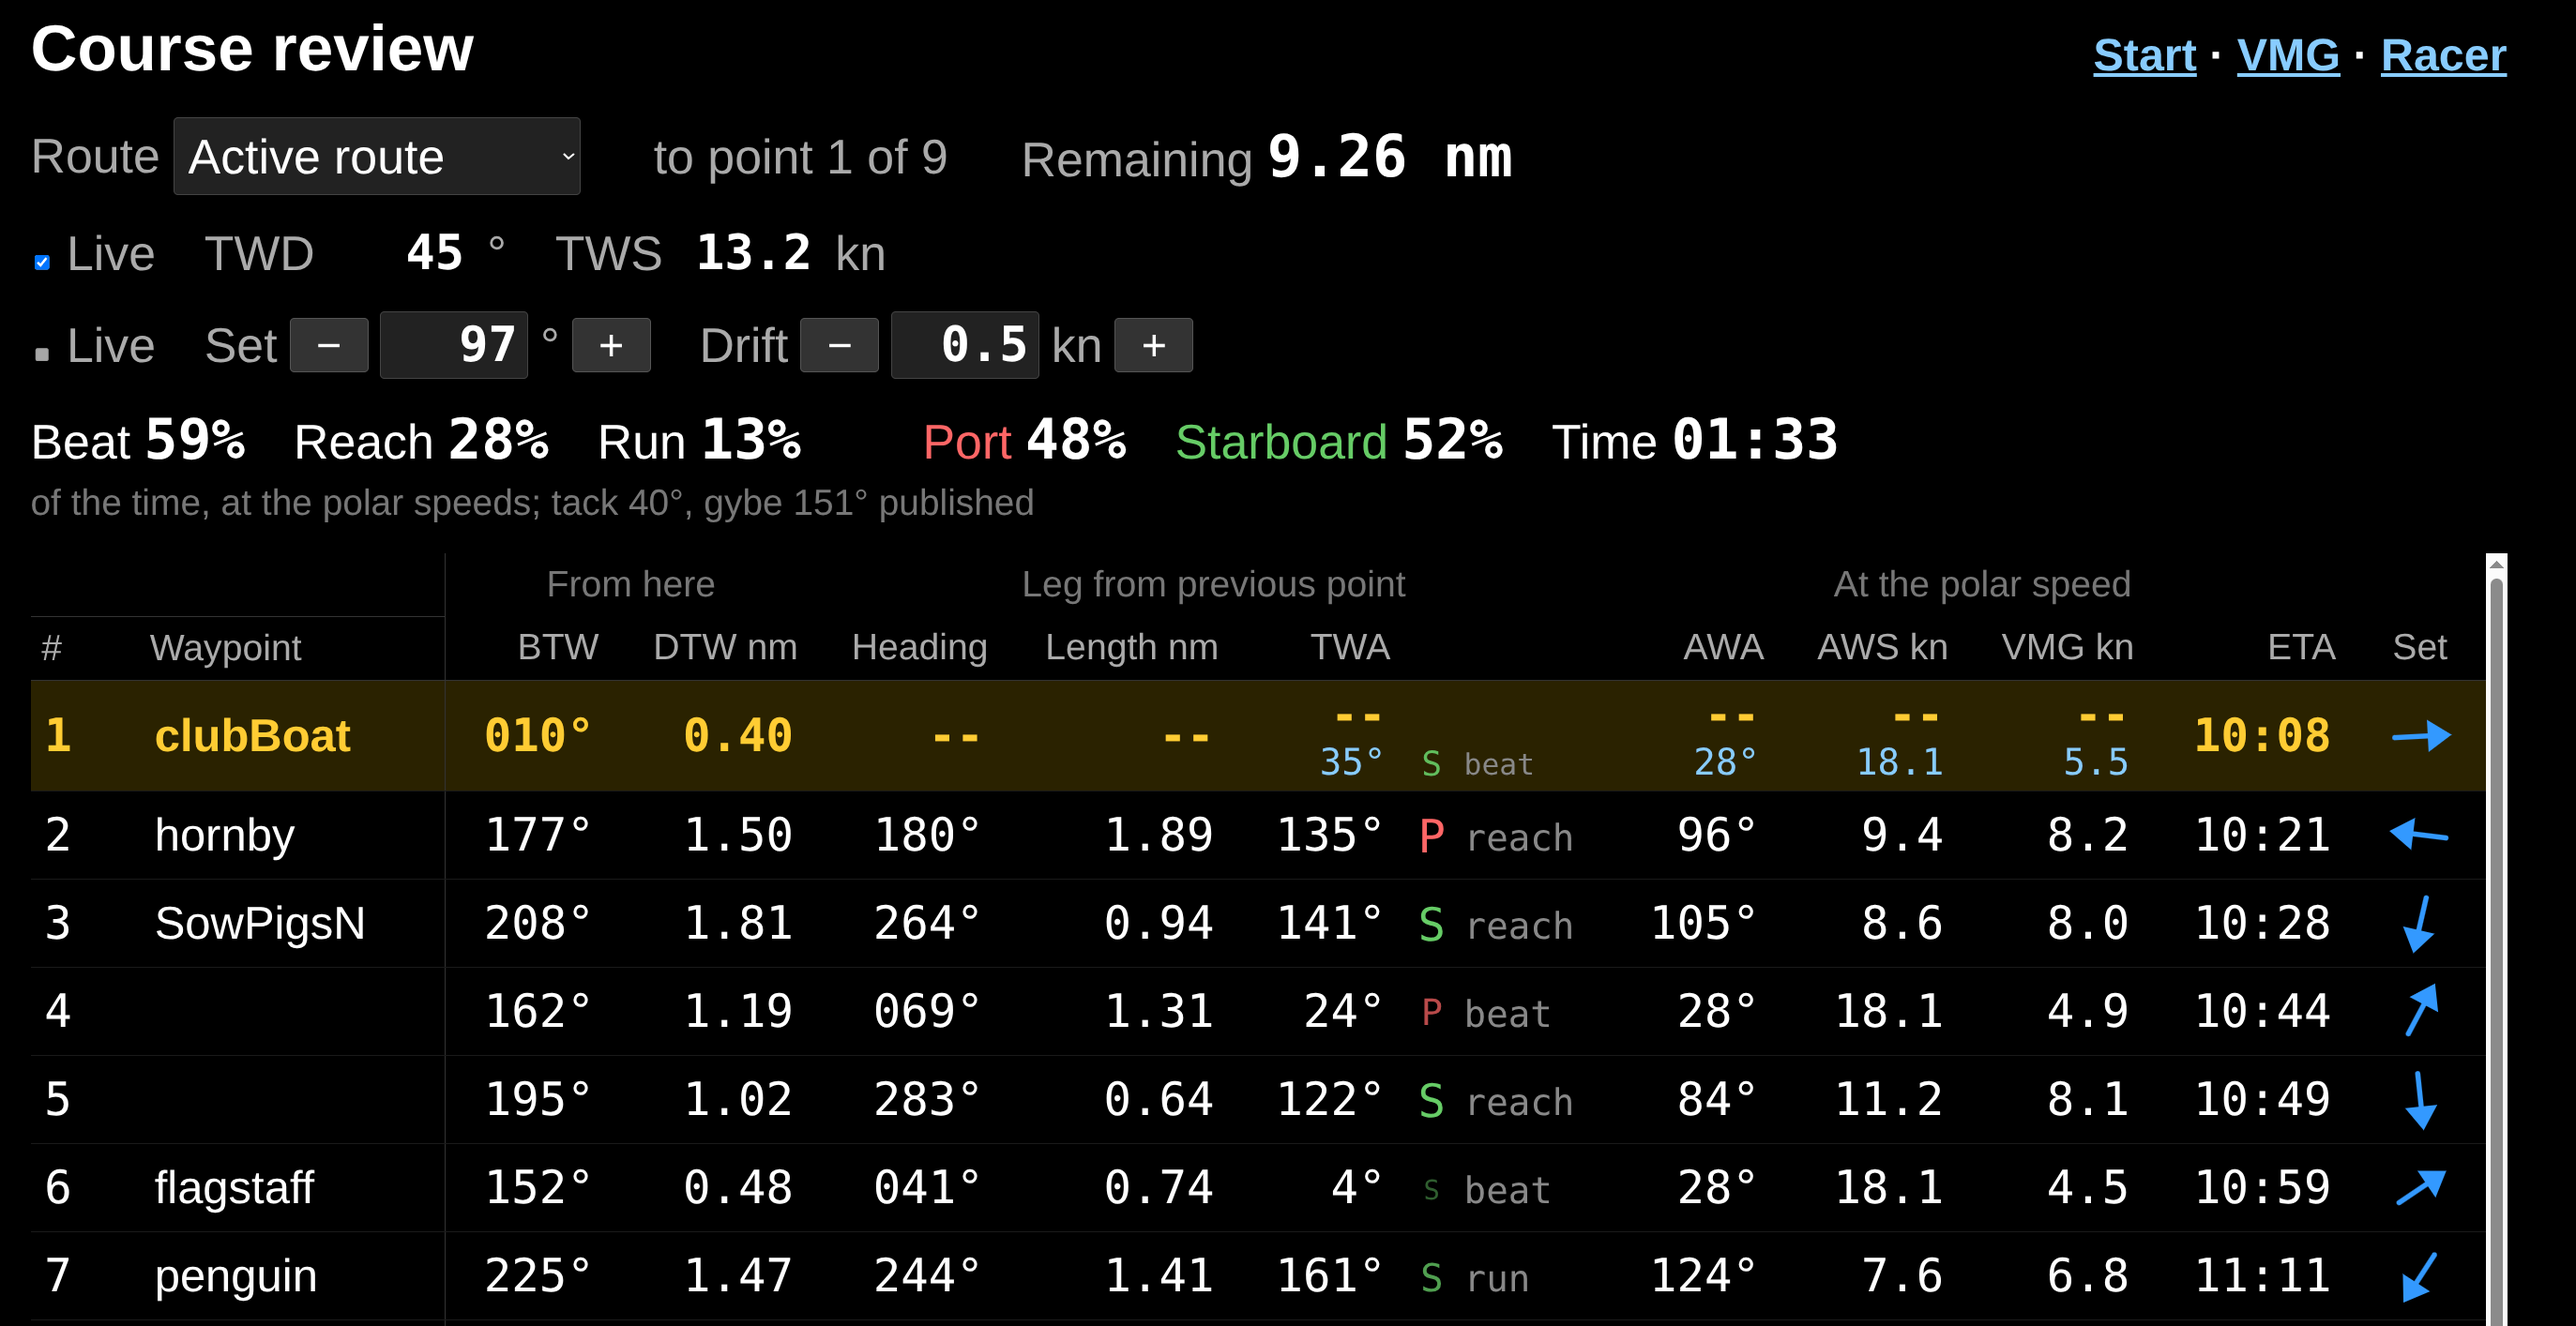
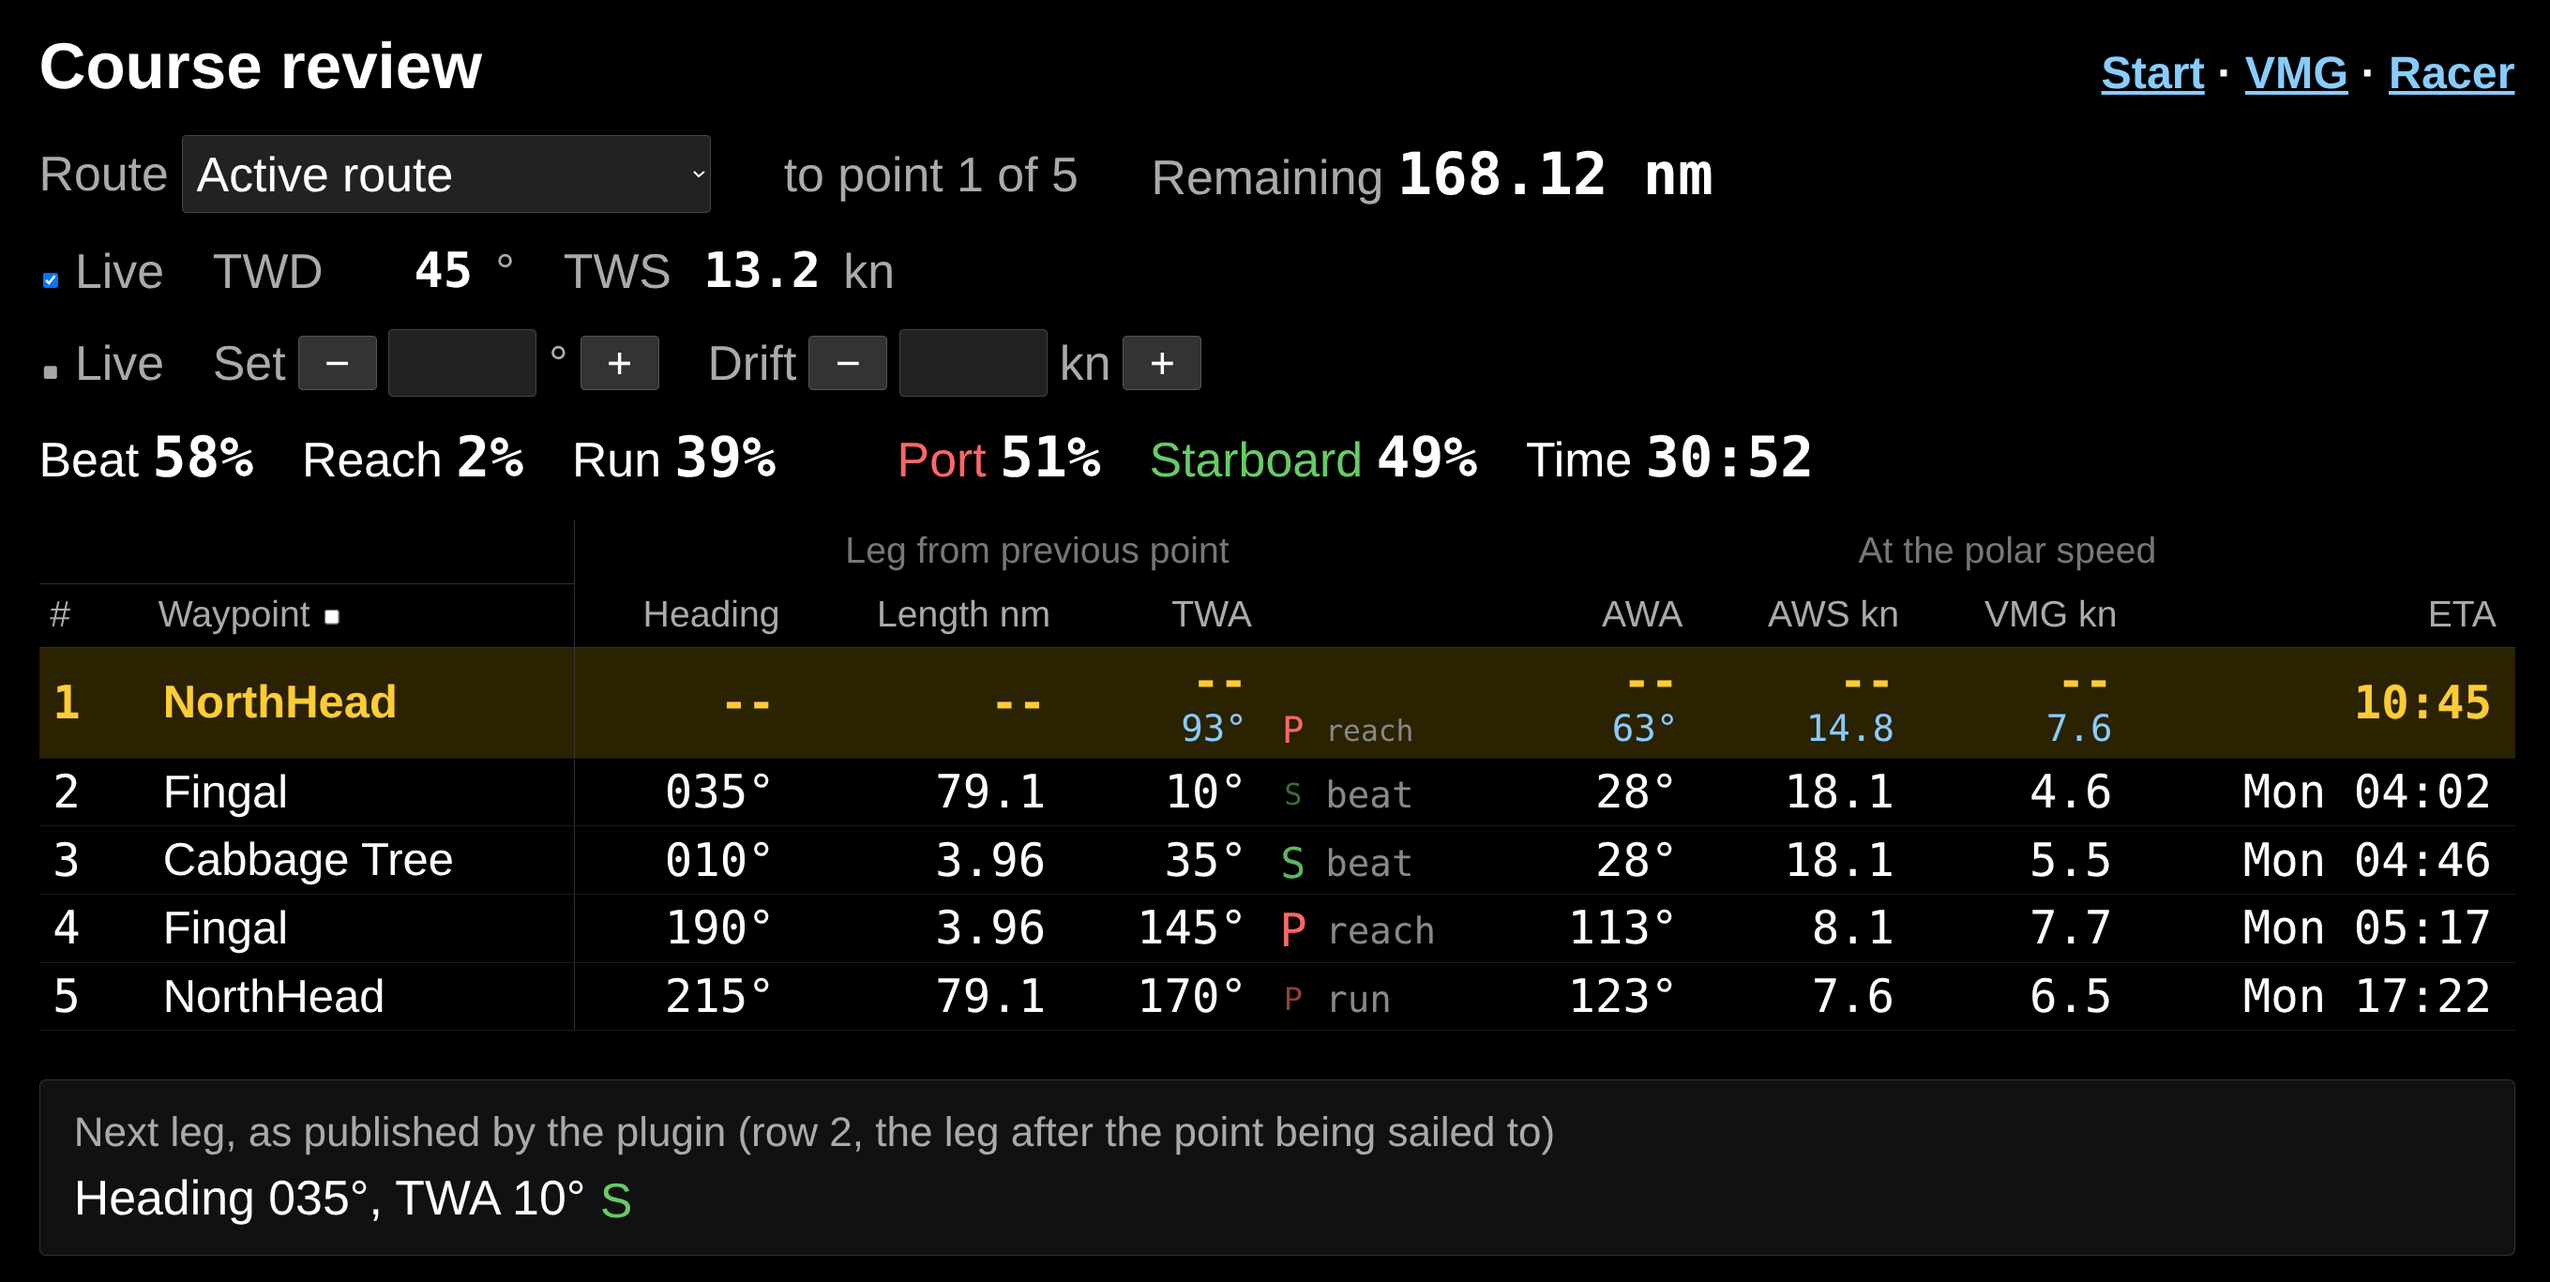
Course page: optional, smaller From here columns, no note under the totals
The BTW/DTW columns are shown only when the tick box beside the Waypoint
heading is ticked (off by default, remembered in the browser), in smaller
type. The note under the totals is gone. New course screenshot.

Claude-Session: https://claude.ai/code/session_01RzhGmF1H7diyDpwv7TuU4a

diff --git a/public/course.html b/public/course.html
@@ -51,6 +51,11 @@
         .c0 { left: 0; width: 2.2em; min-width: 2.2em; box-sizing: border-box; padding-left: 0.3em; padding-right: 0.3em; }
         .c1 { left: 2.2em; max-width: 9em; border-right: 1px solid #333; }
 
+        /* The From here columns: smaller, and only when ticked beside the Waypoint heading. */
+        td.here { font-size: 0.7em; }
+        table.no-here .here { display: none; }
+        #showHere { margin: 0 0 0 0.3em; vertical-align: middle; cursor: pointer; }
+
         tr.passed td { color: #555; }
         tr.next td { background: #2a2200; color: #fc3; font-weight: bold; }
         .published { display: block; font-size: 0.8em; color: #8cf; font-weight: normal; }
@@ -71,7 +76,6 @@
         .totals { display: flex; flex-wrap: wrap; gap: 0.2em 1em; align-items: baseline; margin-bottom: 0.6em; font-size: 0.9em; }
         .totals b { font-family: monospace; font-size: 1.15em; }
         .totals .sep { width: 0.5em; }
-        .totals .basis { color: #777; font-size: 0.75em; }
         /* A fixed box, so a smaller tack letter stays centred and keeps the kind of leg in line. */
         /* The tack, centred in its own narrow column, close to the angle and kind either side. */
         td.side-col, th.side-col { text-align: center; padding-left: 0; padding-right: 0; width: 1em; }
@@ -119,15 +123,15 @@
         <thead>
         <tr>
             <th class="c0"></th><th class="c1"></th>
-            <th class="group" colspan="2">From here</th>
+            <th class="group here" colspan="2">From here</th>
             <th class="group legs" colspan="5">Leg from previous point</th>
             <th class="group pol" colspan="4">At the polar speed</th>
         </tr>
         <tr>
             <th class="l c0">#</th>
-            <th class="l c1">Waypoint</th>
-            <th>BTW</th>
-            <th>DTW nm</th>
+            <th class="l c1">Waypoint <input type="checkbox" id="showHere" title="Show the bearing and distance from here" onchange="showHere(this.checked)"></th>
+            <th class="here">BTW</th>
+            <th class="here">DTW nm</th>
             <th>Heading</th>
             <th>Length nm</th>
             <th>TWA</th>
@@ -151,7 +155,8 @@
 <div id="status"></div>
 
 <div class="note">
-    Bearings are true. <b>BTW/DTW</b>: bearing and distance from the boat to each point.
+    Bearings are true. <b>BTW/DTW</b>, shown with the tick box beside <b>Waypoint</b>: bearing and
+    distance from the boat to each point.
     <b>Leg heading/length</b>: from the previous point of the course. <b>TWA</b> and <b>Set</b> are
     the wind and current measured on the boat now (or, with <b>Live</b> off, the TWD and TWS, or
     the set and drift, set above), projected onto every leg as if they hold for the
@@ -261,16 +266,9 @@
         }
         return etas;
     }
-    // Where the tack and gybe angles the legs are sailed at come from.
-    const ANGLE_SOURCES = {
-        'published': 'published', 'polar': 'from the polar', 'default': 'default',
-        'published and polar': 'published, or from the polar', 'published and default': 'published, or default',
-    };
-
-    function renderTotals(totals, angles) {
+    function renderTotals(totals) {
         const el = document.getElementById('totals');
         if (!totals) { el.innerHTML = ''; return; }
-        const anglesNote = angles ? `; tack ${Math.round(angles.beatAngle)}°, gybe ${Math.round(angles.gybeAngle)}° ${ANGLE_SOURCES[angles.source] ?? ''}` : '';
         el.innerHTML = `
             <span><span class="label">Beat</span> <b>${pct(totals.beat)}</b></span>
             <span><span class="label">Reach</span> <b>${pct(totals.reach)}</b></span>
@@ -278,8 +276,7 @@
             <span class="sep"></span>
             <span><span class="label port">Port</span> <b>${pct(totals.port)}</b></span>
             <span><span class="label stb">Starboard</span> <b>${pct(totals.starboard)}</b></span>
-            ${totals.time != null ? `<span><span class="label">Time</span> <b>${duration(totals.time)}</b></span>` : ''}
-            <span class="basis">${totals.timed ? 'of the time, at the polar speeds' : 'of the distance sailed: no polar'}${anglesNote}</span>`;
+            ${totals.time != null ? `<span><span class="label">Time</span> <b>${duration(totals.time)}</b></span>` : ''}`;
     }
 
     // The current relative to a leg, as a blue arrow: up when it is with the leg, down when
@@ -360,6 +357,19 @@
             : {set: (((set % 360) + 360) % 360) * Math.PI / 180, drift: drift * 0.514444, source: 'set here'};
     }
 
+    // Whether the From here columns are shown, remembered in this browser.
+    function showHere(on) {
+        document.querySelector('table').classList.toggle('no-here', !on);
+        try { localStorage.setItem('racer.course.showHere', on ? '1' : '0'); } catch (e) {}
+    }
+    (function () {
+        // Off unless ticked before in this browser.
+        let on = false;
+        try { on = localStorage.getItem('racer.course.showHere') === '1'; } catch (e) {}
+        document.getElementById('showHere').checked = on;
+        showHere(on);
+    })();
+
     function selectRoute(id) {
         selected = id === '' ? null : id;
         poll();
@@ -410,7 +420,7 @@
             tbody.innerHTML = '';
             renderTotals(null);
         } else {
-            renderTotals(route.totals, route.angles);
+            renderTotals(route.totals);
             const next = route.rows.find(r => r.status === 'next');
             document.getElementById('routeState').textContent = route.active
                 ? `to point ${next ? next.index + 1 : '?'} of ${route.rows.length}${route.reverse ? ', reversed' : ''}`
@@ -424,8 +434,8 @@
                 <tr class="${r.status ?? ''}">
                     <td class="l c0">${r.index + 1}</td>
                     <td class="l name c1">${r.name ?? '<span class="dim">unnamed</span>'}${r.moved != null ? `<span class="moved">waypoint moved ${dist(r.moved)}</span>` : ''}</td>
-                    <td>${deg(r.btw)}</td>
-                    <td>${nm(r.dtw)}</td>
+                    <td class="here">${deg(r.btw)}</td>
+                    <td class="here">${nm(r.dtw)}</td>
                     <td>${deg(r.legHeading)}</td>
                     <td>${nm(r.legLength)}</td>
                     ${twaCells(r)}
